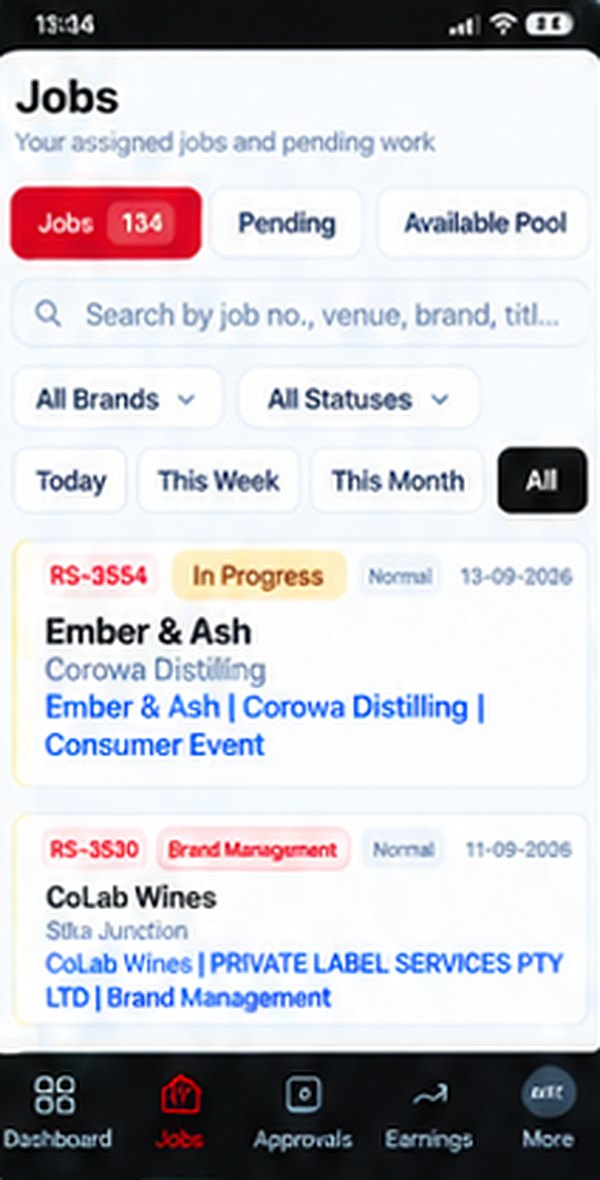
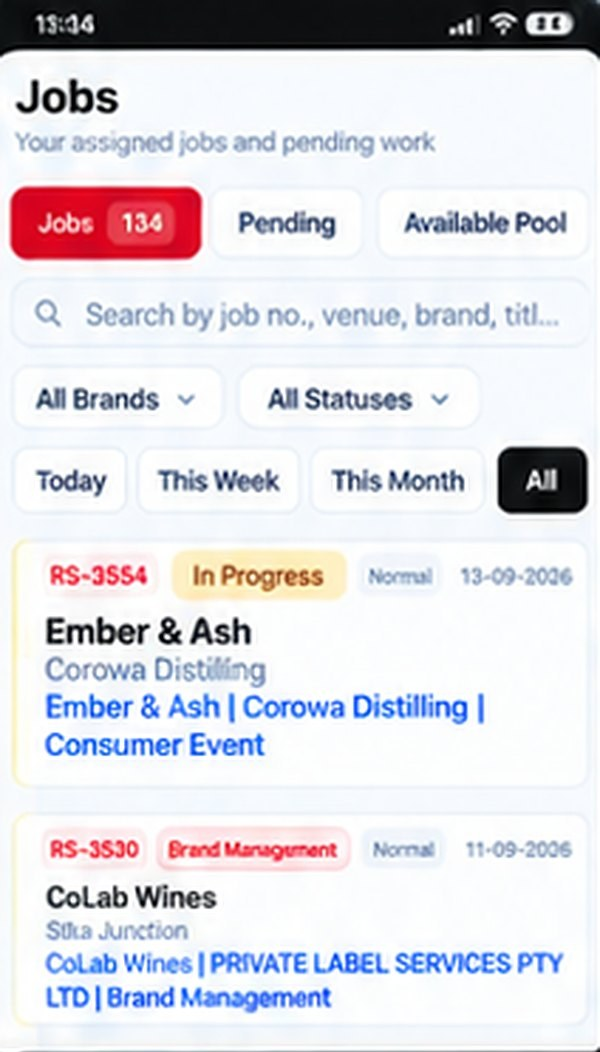
App page: four-step strip (Open Jobs, Tap Charges, Charge Template, Notes + Save) with the tab bar pinned to every phone
Claude-Session: https://claude.ai/code/session_0155VBt7vWt2Nsa1EyTyzxLD

diff --git a/public/repshare-app.html b/public/repshare-app.html
@@ -32,10 +32,12 @@ a{color:#E42E2E}a:hover{color:#B81F24}
 /* phone frame */
 .ph{position:relative;width:100%;max-width:280px;aspect-ratio:9/18.6;background:#0d0d10;border-radius:40px;padding:10px;box-sizing:border-box;box-shadow:0 30px 60px rgba(0,0,0,.35),inset 0 0 0 2px #2b2b30}
 .ph::before{content:"";position:absolute;top:16px;left:50%;transform:translateX(-50%);width:34%;height:18px;background:#0d0d10;border-radius:0 0 12px 12px;z-index:3}
-.ph-screen{position:relative;width:100%;height:100%;border-radius:31px;overflow:hidden;background:#F4F5F8}
-.ph-shot{position:relative}
-.ph-shot img{width:100%;height:auto;display:block}
-.ph.short{aspect-ratio:9/13.6}
+.ph-screen{position:relative;width:100%;height:100%;border-radius:31px;overflow:hidden;background:#FAFBFD;display:flex;flex-direction:column}
+.ph-shot{position:relative;flex:1;min-height:0;overflow:hidden;background:#FAFBFD}
+.ph-img{position:relative}
+.ph-img img{width:100%;height:auto;display:block}
+.ph-bar{flex:none;display:block;width:100%;height:auto;position:relative;z-index:2}
+.ph-stack{position:relative;flex:1;min-height:0}
 
 /* hero */
 .ap-hero{background:#1E2552;color:#fff;position:relative;overflow:hidden}
@@ -213,14 +215,13 @@ a{color:#E42E2E}a:hover{color:#B81F24}
 </div>
 <div class="ph ap-cycle" data-cycle>
 <div class="ph-screen">
-<div class="ph-shot on"><img src="/media/app/step1.jpg" alt="RepShare Jobs screen with assigned jobs" width="600" height="1180"></div>
-<div class="ph-shot"><img src="/media/app/step2.jpg" alt="Job details for a venue and brand" width="600" height="1153" loading="lazy"></div>
-<div class="ph-shot"><img src="/media/app/step3.jpg" alt="Charges tab with booking and on-job timer" width="600" height="1142" loading="lazy"></div>
-<div class="ph-shot"><img src="/media/app/step4.jpg" alt="Choosing Field, Desk, Service or Custom" width="600" height="1142" loading="lazy"></div>
-<div class="ph-shot"><img src="/media/app/step5.jpg" alt="Selecting a charge template" width="600" height="821" loading="lazy"></div>
-<div class="ph-shot"><img src="/media/app/step6.jpg" alt="Entering time and quantity" width="600" height="785" loading="lazy"></div>
-<div class="ph-shot"><img src="/media/app/step7.jpg" alt="Visit outcome quick chips and notes" width="600" height="771" loading="lazy"></div>
-<div class="ph-shot"><img src="/media/app/step8.jpg" alt="Reviewing the total and saving the charge" width="600" height="771" loading="lazy"></div>
+<div class="ph-stack">
+<div class="ph-shot on"><div class="ph-img"><img src="/media/app/step1.jpg" alt="RepShare Jobs screen with assigned jobs" width="600" height="1052"></div></div>
+<div class="ph-shot"><div class="ph-img"><img src="/media/app/step3.jpg" alt="Charges tab with booking and on-job timer" width="600" height="1142" loading="lazy"></div></div>
+<div class="ph-shot"><div class="ph-img"><img src="/media/app/step5.jpg" alt="Selecting the work type and charge template" width="600" height="865" loading="lazy"></div></div>
+<div class="ph-shot"><div class="ph-img"><img src="/media/app/step7.jpg" alt="Visit outcome quick chips and notes" width="600" height="771" loading="lazy"></div></div>
+</div>
+<img class="ph-bar" src="/media/app/tabbar.jpg" alt="" aria-hidden="true" width="600" height="153">
 </div>
 </div>
 <div class="ap-cycle-label" aria-live="polite"><b data-cycle-n>1</b><span data-cycle-t>Open Jobs</span><span class="ap-dots" data-cycle-dots aria-hidden="true"></span></div>
@@ -245,17 +246,13 @@ a{color:#E42E2E}a:hover{color:#B81F24}
 <section style="padding:80px 0 72px">
 <div class="ap-wrap">
 <div class="kick" style="color:#E42E2E">In your pocket · Logging a job charge</div>
-<h2 class="ap-h2">Eight taps from <span style="color:#E42E2E">visit to charge.</span></h2>
+<h2 class="ap-h2">Four taps from <span style="color:#E42E2E">visit to charge.</span></h2>
 <p class="ap-lede">Straight from our rep guide. Reps open the job, time the visit, tag the outcome and save. Brands see it in their dashboard as it happens.</p>
 <div class="ap-steps">
-<div class="ap-step" style="--i:0"><div class="ap-step-h"><b>1</b><span>Open Jobs</span></div><p>Open the Jobs tab and select the correct job.</p><div class="ph"><div class="ph-screen"><div class="ph-shot"><img src="/media/app/step1.jpg" alt="Jobs list with search, brand and status filters" width="600" height="1180" loading="lazy"><i class="tap" style="--x:40%;--y:54%"></i></div></div></div><em>Find the right job.</em></div>
-<div class="ap-step" style="--i:1"><div class="ap-step-h"><b>2</b><span>Open the Job</span></div><p>Tap the job to open it and check the venue and brand.</p><div class="ph"><div class="ph-screen"><div class="ph-shot"><img src="/media/app/step2.jpg" alt="Job details: venue, brand, stage, priority and schedule" width="600" height="1153" loading="lazy"><i class="tap" style="--x:62%;--y:44%"></i></div></div></div><em>Check job details.</em></div>
-<div class="ap-step" style="--i:2"><div class="ap-step-h"><b>3</b><span>Tap Charges</span></div><p>Open the Charges tab and select your booking.</p><div class="ph"><div class="ph-screen"><div class="ph-shot"><img src="/media/app/step3.jpg" alt="Charges tab with a booking and an on-job timer" width="600" height="1142" loading="lazy"><i class="tap" style="--x:41%;--y:30%"></i></div></div></div><em>Open Charges and choose the booking.</em></div>
-<div class="ap-step" style="--i:3"><div class="ap-step-h"><b>4</b><span>Choose the Type</span></div><p>Pick Field, Desk, Service or Custom.</p><div class="ph"><div class="ph-screen"><div class="ph-shot"><img src="/media/app/step4.jpg" alt="Charge type: Field, Desk, Service or Custom, Actual or Quote, Billable" width="600" height="1142" loading="lazy"><i class="tap" style="--x:13%;--y:40%"></i></div></div></div><em>Pick the work type.</em></div>
-<div class="ap-step" style="--i:4"><div class="ap-step-h"><b>5</b><span>Charge Template</span></div><p>Choose the template that matches the activity.</p><div class="ph short"><div class="ph-screen"><div class="ph-shot"><img src="/media/app/step5.jpg" alt="Selecting a field sales charge template" width="600" height="821" loading="lazy"><i class="tap" style="--x:46%;--y:84%"></i></div></div></div><em>Choose the correct template.</em></div>
-<div class="ap-step" style="--i:5"><div class="ap-step-h"><b>6</b><span>Enter Time</span></div><p>Add start and end time, quantity, and check the rate.</p><div class="ph short"><div class="ph-screen"><div class="ph-shot"><img src="/media/app/step6.jpg" alt="Time start, time end, quantity in hours and discount" width="600" height="785" loading="lazy"><i class="tap" style="--x:24%;--y:49%"></i></div></div></div><em>Standard venue visit = 0.5 hours (30 mins).</em></div>
-<div class="ap-step" style="--i:6"><div class="ap-step-h"><b>7</b><span>Notes + Quick chips</span></div><p>Select quick chips or write your own notes.</p><div class="ph short"><div class="ph-screen"><div class="ph-shot"><img src="/media/app/step7.jpg" alt="Visit outcome quick chips and a written note" width="600" height="771" loading="lazy"><i class="tap" style="--x:40%;--y:52%"></i></div></div></div><em>Quick chips help, but don't replace real notes.</em></div>
-<div class="ap-step" style="--i:7"><div class="ap-step-h"><b>8</b><span>Save Charge</span></div><p>Review the total, then tap Save.</p><div class="ph short"><div class="ph-screen"><div class="ph-shot"><img src="/media/app/step8.jpg" alt="Charge total with GST and the Save button" width="600" height="771" loading="lazy"><i class="tap" style="--x:27%;--y:80%"></i></div></div></div><em>Review details and tap Save.</em></div>
+<div class="ap-step" style="--i:0"><div class="ap-step-h"><b>1</b><span>Open Jobs</span></div><p>Open the Jobs tab and select the job.</p><div class="ph"><div class="ph-screen"><div class="ph-shot"><div class="ph-img"><img src="/media/app/step1.jpg" alt="Jobs list with search, brand and status filters" width="600" height="1052" loading="lazy"><i class="tap" style="--x:40%;--y:61%"></i></div></div><img class="ph-bar" src="/media/app/tabbar.jpg" alt="" aria-hidden="true" width="600" height="153" loading="lazy"></div></div><em>Find the right job.</em></div>
+<div class="ap-step" style="--i:1"><div class="ap-step-h"><b>2</b><span>Tap Charges</span></div><p>Open the job, tap Charges and select your booking.</p><div class="ph"><div class="ph-screen"><div class="ph-shot"><div class="ph-img"><img src="/media/app/step3.jpg" alt="Charges tab with a booking and an on-job timer" width="600" height="1142" loading="lazy"><i class="tap" style="--x:41%;--y:30%"></i></div></div><img class="ph-bar" src="/media/app/tabbar.jpg" alt="" aria-hidden="true" width="600" height="153" loading="lazy"></div></div><em>Start the on-job timer at the venue.</em></div>
+<div class="ap-step" style="--i:2"><div class="ap-step-h"><b>3</b><span>Charge Template</span></div><p>Pick Field, Desk, Service or Custom, then the template that matches the activity.</p><div class="ph"><div class="ph-screen"><div class="ph-shot"><div class="ph-img"><img src="/media/app/step5.jpg" alt="Choosing Field and a field sales charge template" width="600" height="865" loading="lazy"><i class="tap" style="--x:46%;--y:78%"></i></div></div><img class="ph-bar" src="/media/app/tabbar.jpg" alt="" aria-hidden="true" width="600" height="153" loading="lazy"></div></div><em>A standard venue visit is 30 minutes.</em></div>
+<div class="ap-step" style="--i:3"><div class="ap-step-h"><b>4</b><span>Notes + Save</span></div><p>Tag the visit outcome with quick chips, add your notes and save.</p><div class="ph"><div class="ph-screen"><div class="ph-shot"><div class="ph-img"><img src="/media/app/step7.jpg" alt="Visit outcome quick chips and a written note" width="600" height="771" loading="lazy"><i class="tap" style="--x:40%;--y:52%"></i></div></div><img class="ph-bar" src="/media/app/tabbar.jpg" alt="" aria-hidden="true" width="600" height="153" loading="lazy"></div></div><em>Quick chips help, but don't replace real notes.</em></div>
 </div>
 </div>
 </section>
@@ -447,7 +444,7 @@ a{color:#E42E2E}a:hover{color:#B81F24}
   var cyc = document.querySelector('[data-cycle]');
   if (cyc) {
     var shots = cyc.querySelectorAll('.ph-shot');
-    var names = ['Open Jobs', 'Open the Job', 'Tap Charges', 'Choose the Type', 'Charge Template', 'Enter Time', 'Notes + Quick chips', 'Save Charge'];
+    var names = ['Open Jobs', 'Tap Charges', 'Charge Template', 'Notes + Save'];
     var n = document.querySelector('[data-cycle-n]'), t = document.querySelector('[data-cycle-t]'), dots = document.querySelector('[data-cycle-dots]');
     shots.forEach(function () { dots.appendChild(document.createElement('i')); });
     var k = 0;
